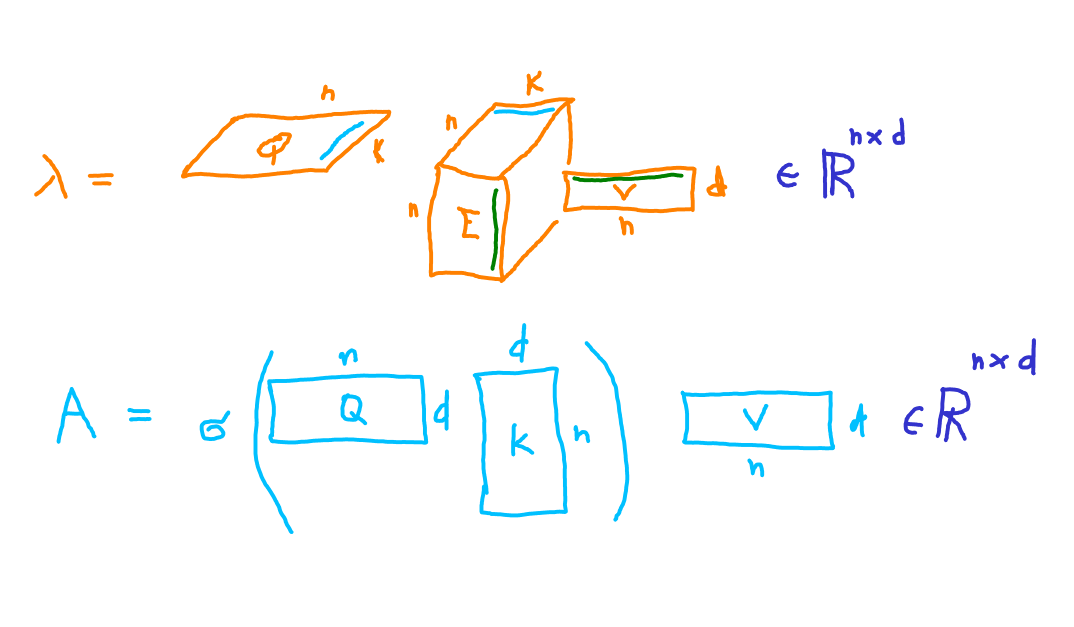
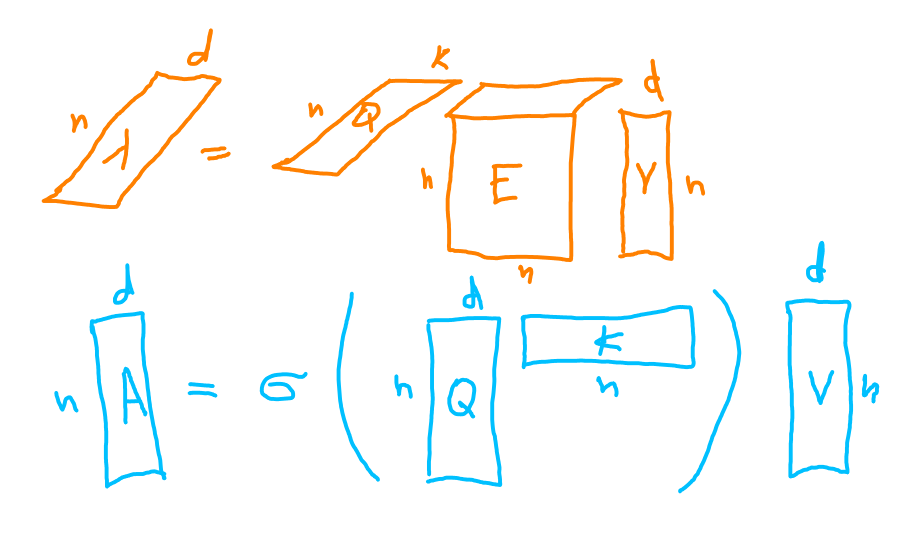
lambda layer

diff --git a/_posts/2020-11-29-Lamda-Networks-Transform-Self-Attention.md b/_posts/2020-11-29-Lamda-Networks-Transform-Self-Attention.md
@@ -92,6 +92,16 @@ because positional encodings matrix is 3 dimensional (a cubic matrix).
 Each query vector \\( Q_l \in \mathbb{R}^{k} \\) gets its own special key \\( E_l^\intercal \in \mathbb{R}^{k \times n} \\).
 
 
+<figure class="figure">
+    <img
+        class="figure-img img-fluid rounded"
+        alt="Lambda layer vs self-attention matrix multiplication"
+        src="/images/lambda-layer-mult.png">
+    <figcaption class="figure-caption">
+        Lambda layer vs self-attention matrix multiplication
+    </figcaption>
+</figure>
+
 
 I will omit the index \\( l\\) to obtain a format akin to self-attention.
 
